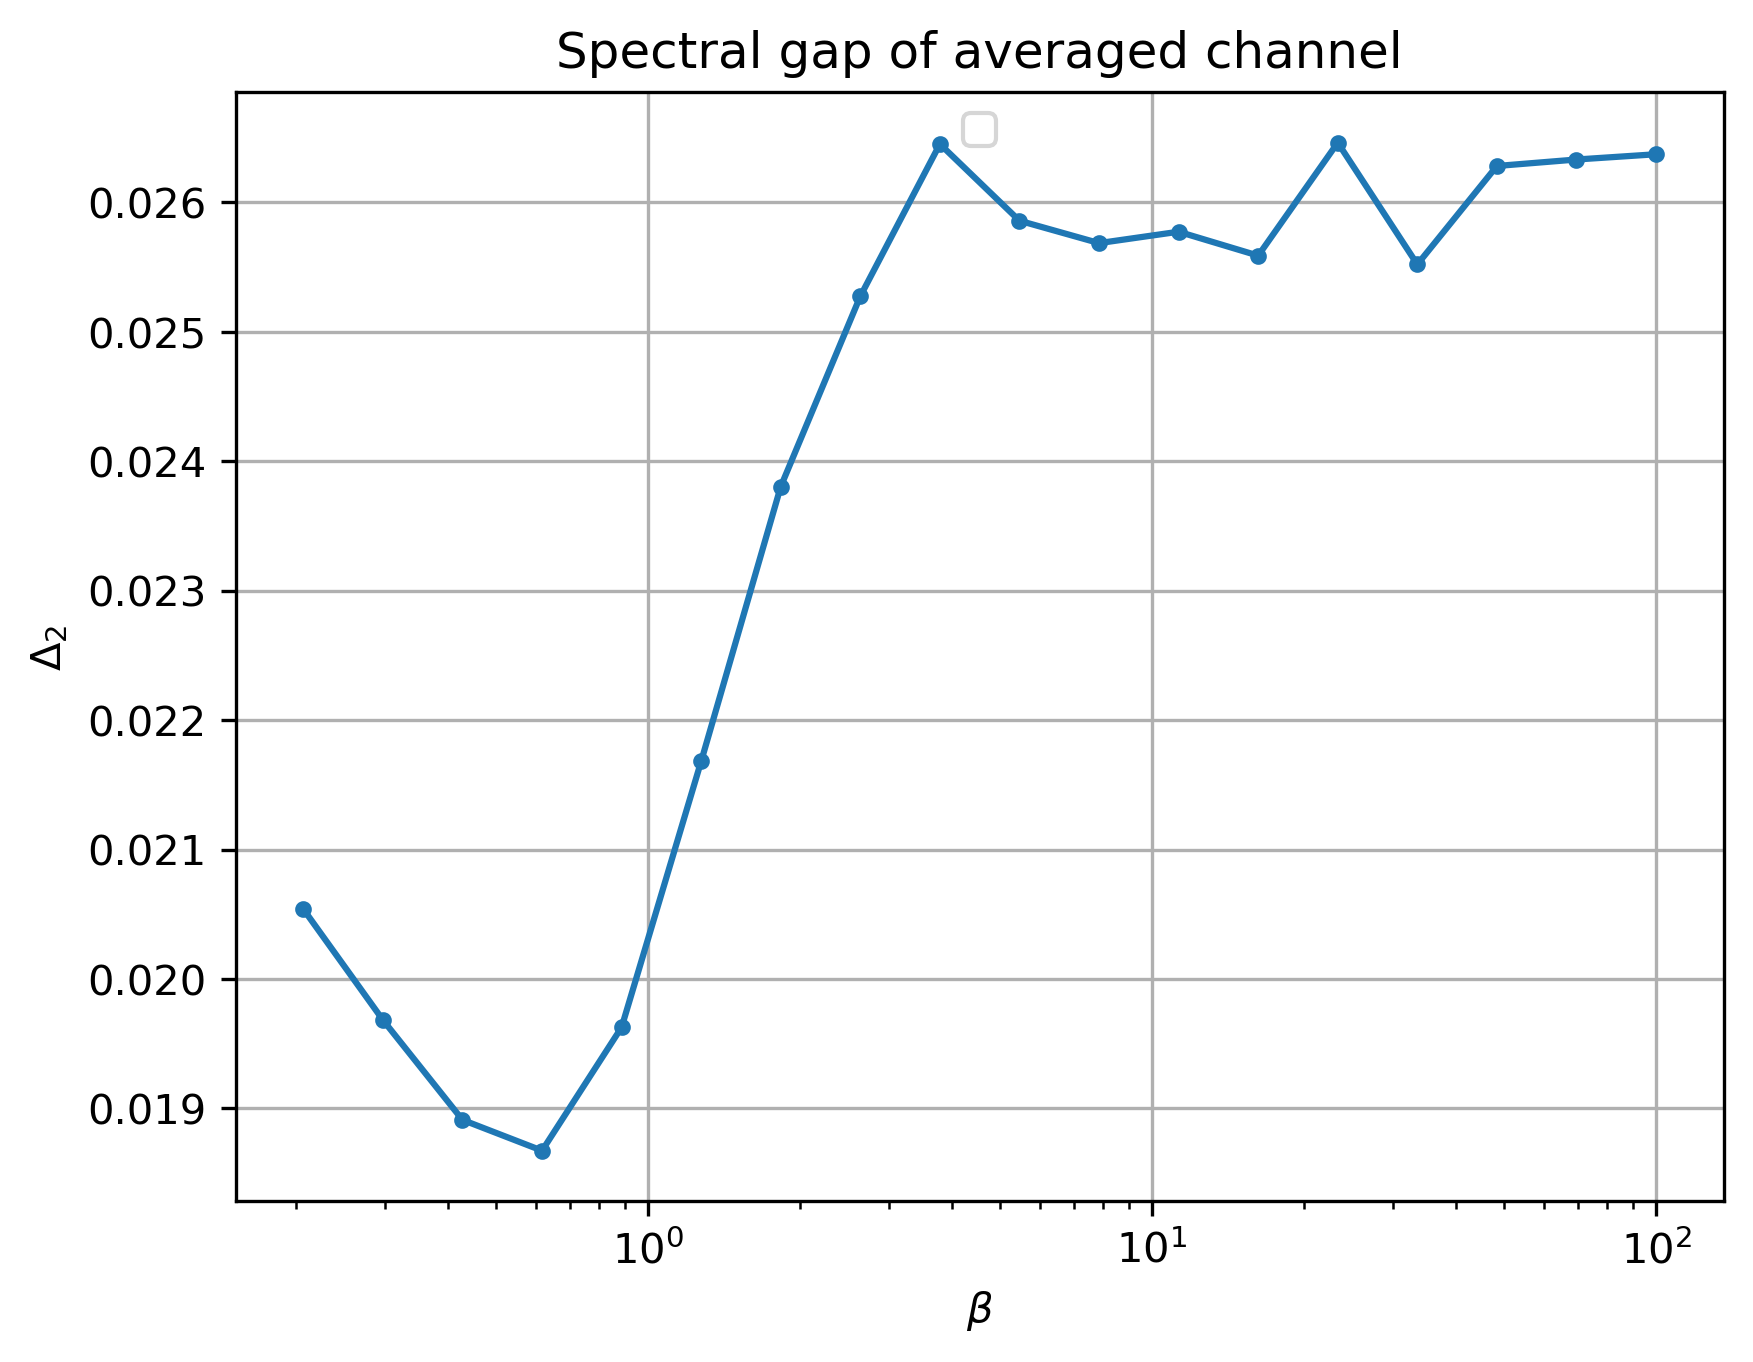
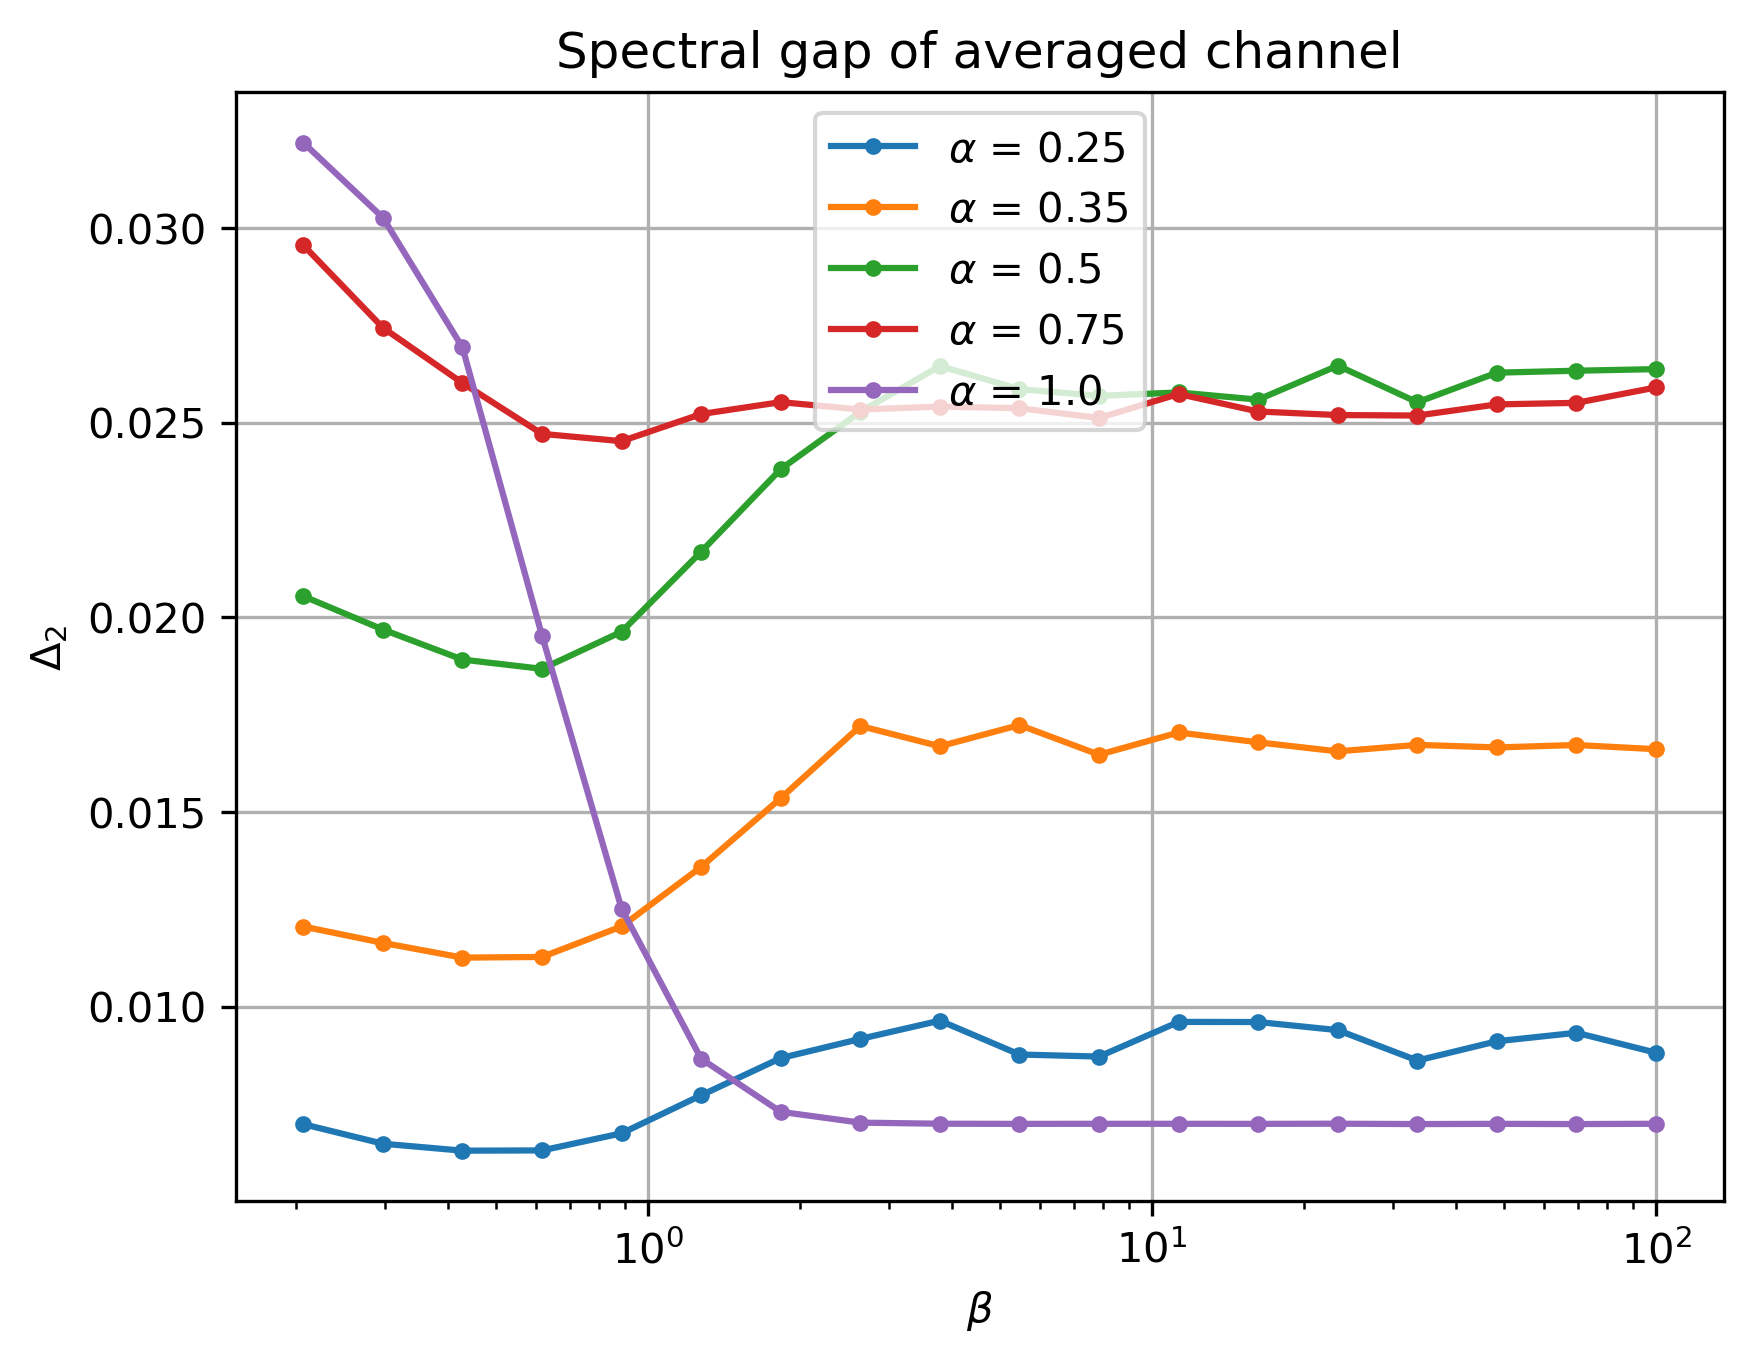
update cooling entrypoint and sweep artifacts

diff --git a/cooling_channel.py b/cooling_channel.py
@@ -273,9 +273,7 @@ def create_circuit_diagram(qc_name:str, path, file_name:str = "", *, num_timeste
     fig.savefig(path+file_name, dpi=200)
     plt.close(fig)
 
-if __name__ == "__main__":
-
-
+def main():
     # generic parameters for testing
     output = True
     N = 3
@@ -333,3 +331,5 @@ if __name__ == "__main__":
         local_path = Path(__file__).resolve().parent
         create_circuit_diagram(circuit, local_path, num_timesteps=num_timesteps, tau=tau, mixed=mixed)
     
+if __name__ == "__main__":
+    main()
